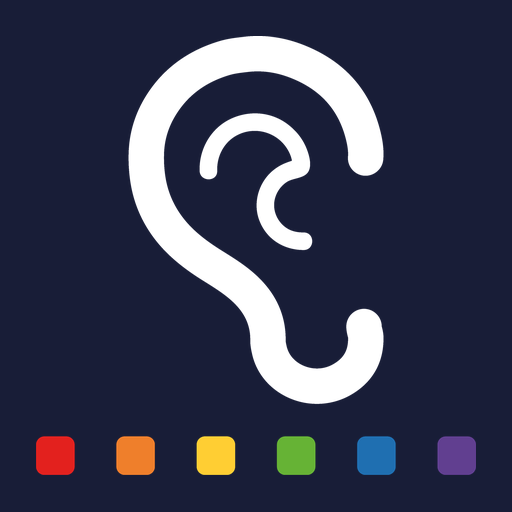
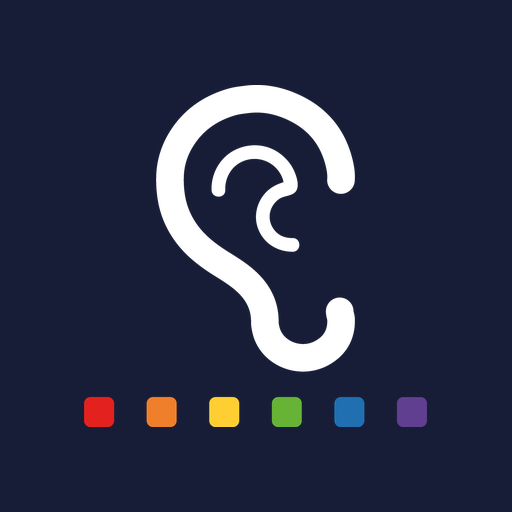
fix(marca): agrega margen al icono de la app para que no quede pegado al borde
Que se hizo:
- El icono de AudioColors en la pantalla de inicio del celular se veia
  apretado contra la esquina redondeada que le aplica el sistema operativo,
  a diferencia de otras apps que dejan aire alrededor del dibujo. Se ajusto
  para que tenga el mismo margen que se espera de un icono bien presentado

Que se probo:
- yarn lint y yarn typecheck sin errores
- Se comparo visualmente contra el icono de otra app real para confirmar
  que el margen quedara proporcionado

diff --git a/.claude/BRAND.md b/.claude/BRAND.md
@@ -264,11 +264,26 @@ legible. Para el `.ico`, pasar `sizes=[(16,16),(32,32),(48,48)]` y
 embebe un tamaño.
 
 Para **apple-touch-icon / icon-192 / icon-512 / icon-512-maskable**: usar el
-isotipo completo (oreja + 6 puntos), centrado sobre un canvas cuadrado con
-margen (~14% para los íconos normales, ~40% para los maskable por su
-"safe zone"), aplanado sobre fondo opaco blanco (prod) o navy `#181d37`
-(dev) — estos formatos no soportan transparencia real en la práctica (iOS y
-Android rellenan con negro si el PNG trae alfa).
+isotipo completo (oreja + 6 puntos), centrado sobre un canvas cuadrado,
+aplanado sobre fondo opaco blanco (prod) o navy `#181d37` (dev) — estos
+formatos no soportan transparencia real en la práctica (iOS y Android
+rellenan con negro si el PNG trae alfa).
+
+**Margen para los no-maskable (apple-touch-icon, icon-192, icon-512):** el
+isotipo debe ocupar **~65-70% del ancho/alto del lienzo**, dejando **~15-17%
+de margen por lado** (contenido centrado). Una primera versión los generó al
+~86% del lienzo (~7% de margen) y el resultado se veía "pegado al borde"
+comparado con íconos reales de otras apps (se detectó comparando contra el
+ícono de Magastore en un iPhone real, que tiene bastante aire) — iOS aplica
+su propio recorte de esquina redondeada sobre el ícono cuadrado, y con tan
+poco margen el contenido queda visualmente apretado contra esa curva. El
+~67% usado en la práctica corresponde a redimensionar el isotipo para que su
+lado mayor mida `canvas_size * 0.67` antes de centrarlo.
+
+**Margen para los maskable (icon-512-maskable, icon-512-dev-maskable):** ya
+usan la "safe zone" estándar de Android (~40% de margen total, isotipo
+ocupando ~60% del lienzo) — medido y confirmado visualmente, no hace falta
+tocarlos.
 
 Verificar siempre el resultado con el chequeo de basura de bordes de la
 introducción de este documento antes de reemplazar los archivos en
